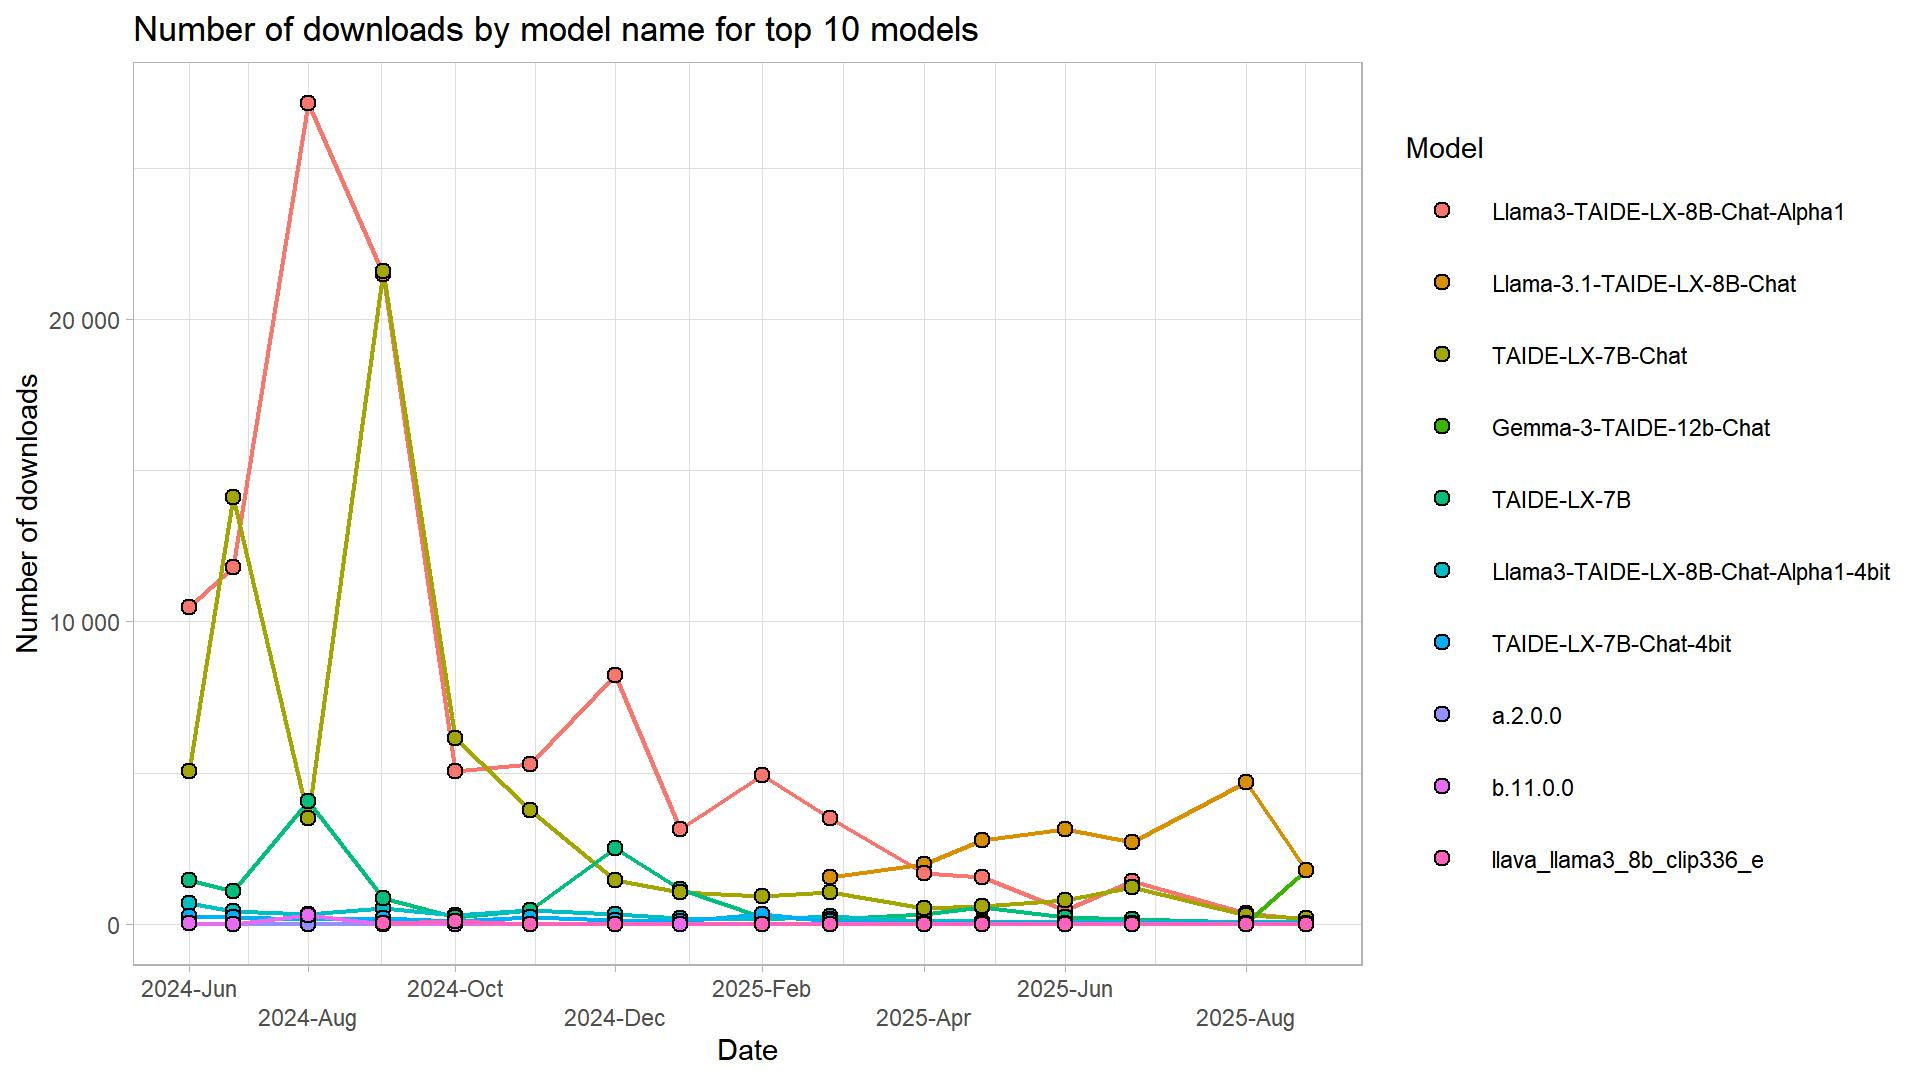
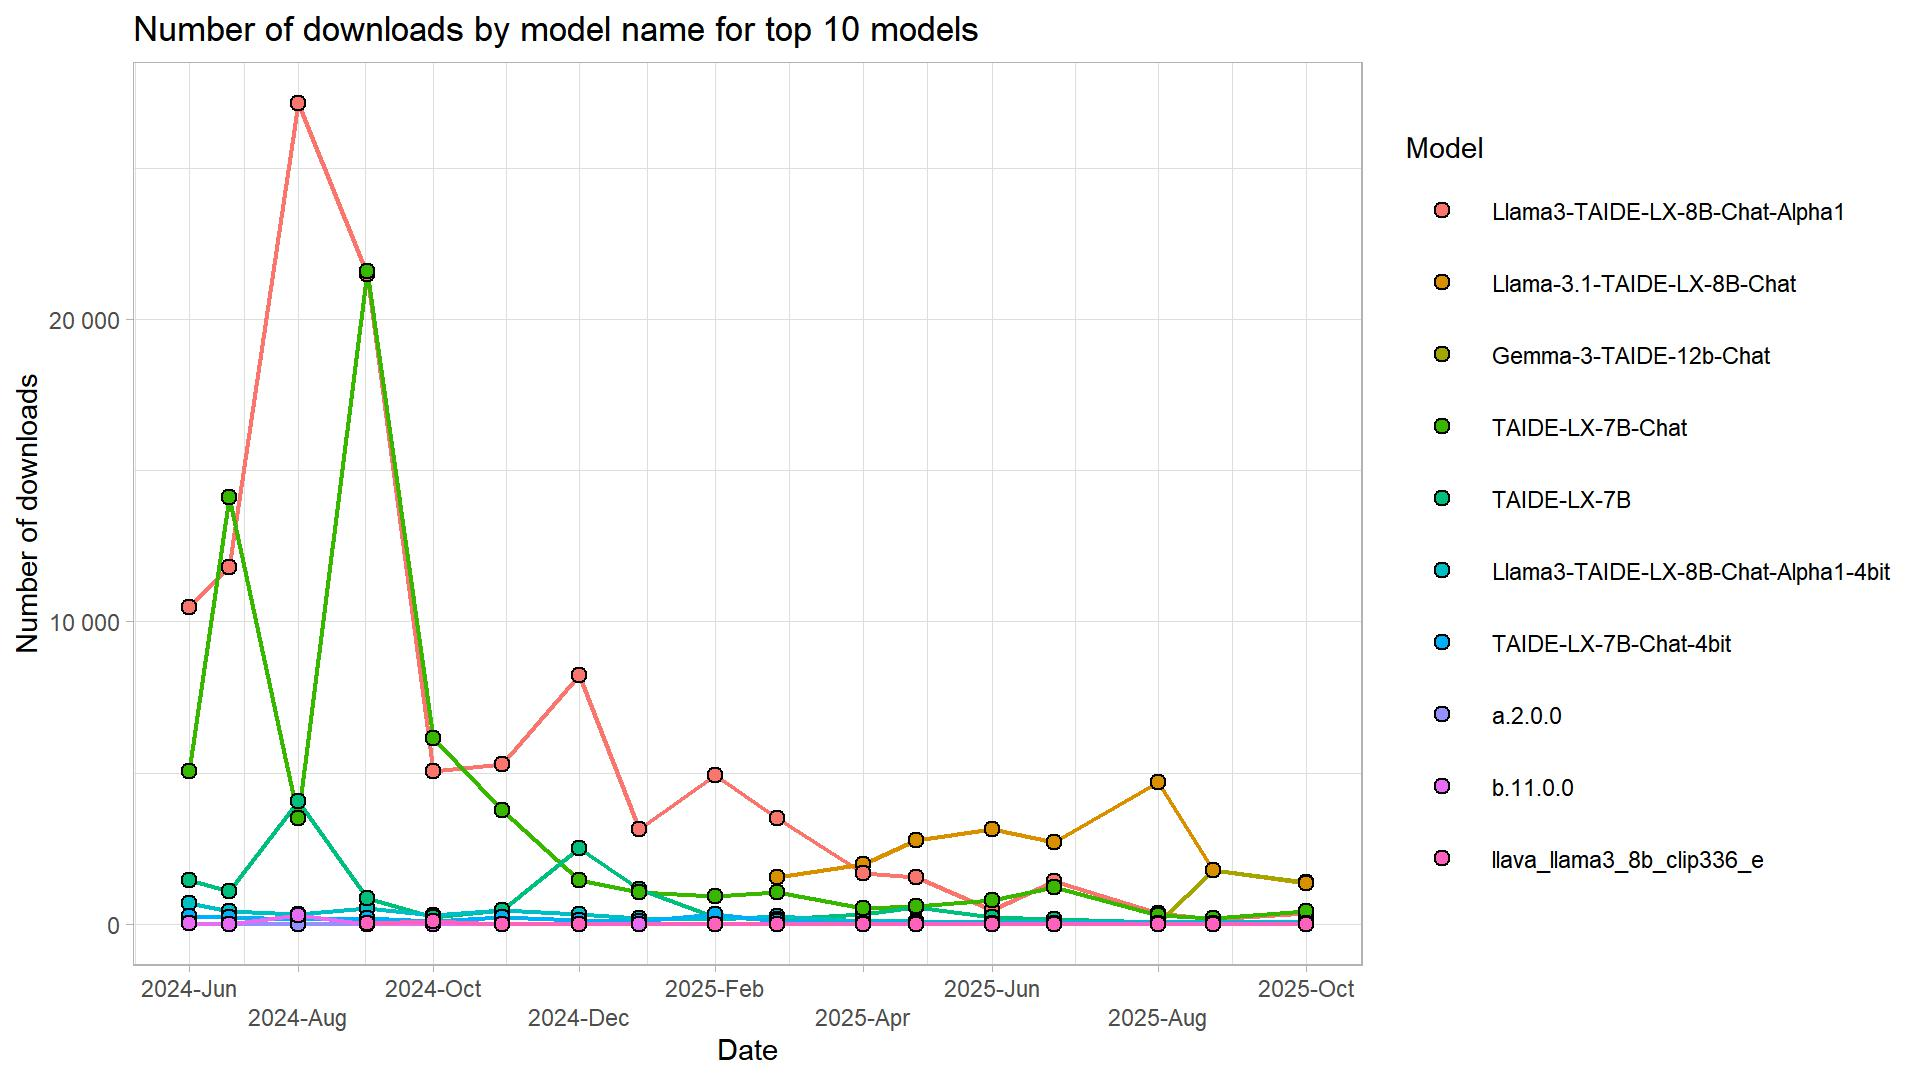
Update

diff --git a/README.md b/README.md
@@ -12,20 +12,17 @@ Script is run monthly, and a monthly `csv`-file outputted to `/data` folder.
 
 ## Table of downloads
 
-
-
-
-|model_name                          | downloadsAllTime| 2025-09| 2025-08| 2025-07| 2025-06| 2025-05| 2025-04| 2025-03| 2025-02| 2025-01| 2024-12| 2024-11| 2024-10| 2024-09| 2024-08| 2024-07| 2024-06|
-|:-----------------------------------|----------------:|-------:|-------:|-------:|-------:|-------:|-------:|-------:|-------:|-------:|-------:|-------:|-------:|-------:|-------:|-------:|-------:|
-|Gemma-3-TAIDE-12b-Chat              |             1773|    1763|      10|      NA|      NA|      NA|      NA|      NA|      NA|      NA|      NA|      NA|      NA|      NA|      NA|      NA|      NA|
-|Llama-3.1-TAIDE-LX-8B-Chat          |            18600|    1774|    4689|    2699|    3139|    2770|    1975|    1554|      NA|      NA|      NA|      NA|      NA|      NA|      NA|      NA|      NA|
-|Llama3-TAIDE-LX-8B-Chat-Alpha1      |           106624|     171|     348|    1416|     446|    1549|    1675|    3484|    4922|    3122|    8215|    5272|    5042|   21499|   27164|   11808|   10491|
-|Llama3-TAIDE-LX-8B-Chat-Alpha1-4bit |             4063|      51|      76|      63|      72|     102|      99|     252|     172|     185|     312|     444|     301|     527|     324|     412|     671|
-|TAIDE-LX-7B                         |            13488|      27|      48|     141|     222|     558|     338|     145|     215|    1150|    2491|     463|     215|     860|    4063|    1098|    1454|
-|TAIDE-LX-7B-Chat                    |            62207|     184|     276|    1228|     776|     591|     527|    1045|     909|    1036|    1455|    3774|    6130|   21600|    3495|   14122|    5059|
-|TAIDE-LX-7B-Chat-4bit               |             1986|      37|      22|      34|      39|      40|      37|      94|     311|     104|     135|     217|     107|     194|     148|     208|     259|
-|a.2.0.0                             |               24|       0|       0|       0|       0|       0|       0|       0|       0|       0|       0|       0|       0|       0|       0|       0|      24|
-|b.1.0.0                             |               15|       0|       0|       0|       0|       0|       0|       0|       0|       0|       0|       0|       0|       0|       0|      15|       0|
-|b.11.0.0                            |              355|       0|       0|       0|       0|       0|       0|       0|       0|       0|       0|       5|       0|       7|     302|       5|      36|
-|e.1.1.0                             |               19|       0|       0|       0|       0|       0|       0|       0|       0|       0|       0|       0|       0|       0|       5|       0|      14|
-|llava_llama3_8b_clip336_e           |              115|       0|       0|       0|       0|       0|       0|       0|       0|      NA|       0|       0|      81|      34|      NA|      NA|      NA|
+|model_name                          | downloadsAllTime| 2025-10| 2025-09| 2025-08| 2025-07| 2025-06| 2025-05| 2025-04| 2025-03| 2025-02| 2025-01| 2024-12| 2024-11| 2024-10| 2024-09| 2024-08| 2024-07| 2024-06|
+|:-----------------------------------|----------------:|-------:|-------:|-------:|-------:|-------:|-------:|-------:|-------:|-------:|-------:|-------:|-------:|-------:|-------:|-------:|-------:|-------:|
+|Llama3-TAIDE-LX-8B-Chat-Alpha1      |           106970|     346|     171|     348|    1416|     446|    1549|    1675|    3484|    4922|    3122|    8215|    5272|    5042|   21499|   27164|   11808|   10491|
+|TAIDE-LX-7B-Chat                    |            62644|     437|     184|     276|    1228|     776|     591|     527|    1045|     909|    1036|    1455|    3774|    6130|   21600|    3495|   14122|    5059|
+|Llama-3.1-TAIDE-LX-8B-Chat          |            19939|    1339|    1774|    4689|    2699|    3139|    2770|    1975|    1554|       0|       0|       0|       0|       0|       0|       0|       0|       0|
+|TAIDE-LX-7B                         |            13530|      42|      27|      48|     141|     222|     558|     338|     145|     215|    1150|    2491|     463|     215|     860|    4063|    1098|    1454|
+|Llama3-TAIDE-LX-8B-Chat-Alpha1-4bit |             4155|      92|      51|      76|      63|      72|     102|      99|     252|     172|     185|     312|     444|     301|     527|     324|     412|     671|
+|Gemma-3-TAIDE-12b-Chat              |             3142|    1369|    1763|      10|       0|       0|       0|       0|       0|       0|       0|       0|       0|       0|       0|       0|       0|       0|
+|TAIDE-LX-7B-Chat-4bit               |             2015|      29|      37|      22|      34|      39|      40|      37|      94|     311|     104|     135|     217|     107|     194|     148|     208|     259|
+|b.11.0.0                            |              355|       0|       0|       0|       0|       0|       0|       0|       0|       0|       0|       0|       5|       0|       7|     302|       5|      36|
+|llava_llama3_8b_clip336_e           |              115|       0|       0|       0|       0|       0|       0|       0|       0|       0|       0|       0|       0|      81|      34|       0|       0|       0|
+|a.2.0.0                             |               24|       0|       0|       0|       0|       0|       0|       0|       0|       0|       0|       0|       0|       0|       0|       0|       0|      24|
+|e.1.1.0                             |               19|       0|       0|       0|       0|       0|       0|       0|       0|       0|       0|       0|       0|       0|       0|       5|       0|      14|
+|b.1.0.0                             |               15|       0|       0|       0|       0|       0|       0|       0|       0|       0|       0|       0|       0|       0|       0|       0|      15|       0|
